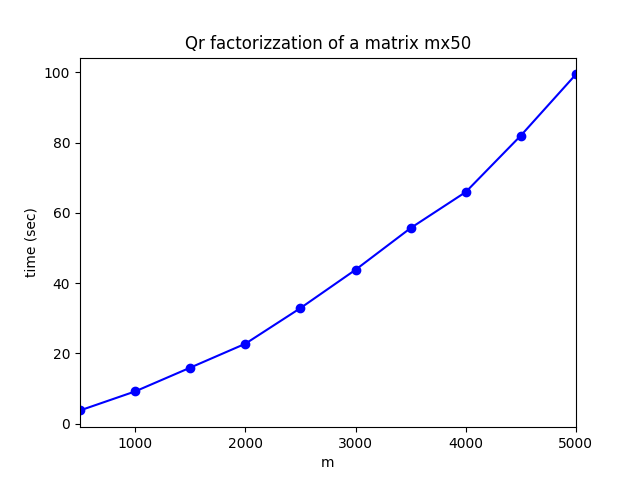
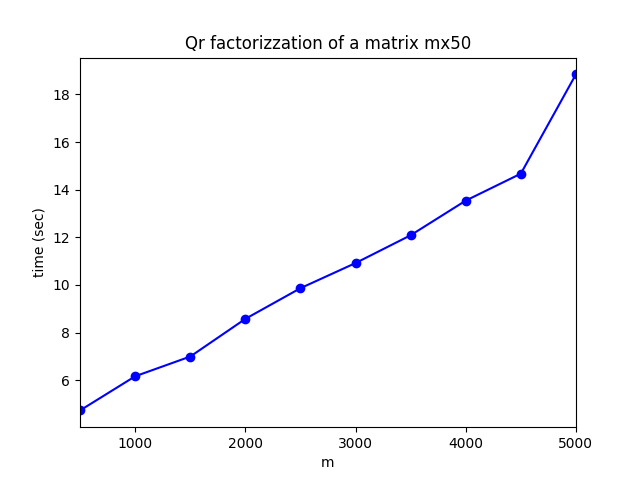
Migliorate performance thin QR

diff --git a/src/testLS.py b/src/testLS.py
@@ -60,7 +60,7 @@ def load_ML_CUP_dataset ( filename ):
     return np.array(M), np.array(b)
 
 
-def QR_scaling () :
+def QR_scaling (m, n, step, t) :
     """Tests the QR factorization for different matrices with m in [200, 5000] and n=50.
     Executes each example for a given amount of time and averages the times accordingly. For each result
     prints the size m and the average execution time, together with the time difference from the previous
@@ -70,12 +70,12 @@ def QR_scaling () :
     of dimension m. The resulting image is saved in the resource folder as 'QRscaling_n50.png'.
     """
 
-    print("n=50")
+    starting_m = 500
+
+    print(f"n={n}, m={m}, t={t}")
     print("m\ttime\tdelta")
-    n = 500
-    t = 10
     time_list = []
-    mrange = range(500,5500,500)
+    mrange = range(starting_m,m,step)
     prev_a = 0
     ls = LS()
     for m in mrange:
@@ -85,9 +85,7 @@ def QR_scaling () :
             startQR = dt.now()
             R = ls.qr(A)
             Q = ls.revertQ()
-            R_complete = np.zeros((m,n))
-            R_complete[:n, :n] = R_complete[:n, :n] + R
-            QR = np.dot(Q, R_complete)
+            QR = np.dot(Q, R)
             endQR = end_time(startQR)
             mean += endQR
         
@@ -105,7 +103,7 @@ def QR_scaling () :
 
     plt.gca().set_xlim ((min(mrange)-1, max(mrange)+1))
 
-    plt.savefig("../results/QRscaling_n500_secs.png")
+    plt.savefig(f"../results/QRscaling_n{n}m{m}_secs.png")
     plt.clf()
 
 
@@ -123,15 +121,13 @@ def test_random_dataset(m, n):
     startQR = dt.now()
     R = ls.qr(M)
     Q = ls.revertQ()
-    R_complete = np.zeros((m,n))
-    R_complete[:n, :n] = R_complete[:n, :n] + R
-    QR = np.dot(Q, R_complete)
+    QR = np.dot(Q, R)
     endQR = end_time(startQR)
 
 
     # Computes QR factorization using numpy
     startQRnp = dt.now()
-    Qnp, Rnp = np.linalg.qr(M, mode="complete")
+    Qnp, Rnp = np.linalg.qr(M)
     QRnp = np.dot(Qnp, Rnp)
     endQRnp = end_time(startQRnp)
 
@@ -226,4 +222,9 @@ if __name__ == "__main__":
         n = int(sys.argv[3])    # number of cols
         test_random_dataset(m, n)
     elif test == QR_SCALING:
-        QR_scaling()
+        assert len(sys.argv) == 6, "This kind of test requires 'm', 'n', 'step' and 't'."
+        m = int(sys.argv[2])
+        n = int(sys.argv[3])
+        step = int(sys.argv[4])
+        t = int(sys.argv[5])
+        QR_scaling(m, n, step, t)

diff --git a/src/LS.py b/src/LS.py
@@ -115,8 +115,8 @@ class LS():
         n = len(self.u_list)
         m = len(self.u_list[0])
 
-        Q = np.zeros((m,m))
-        for i in range(m):
+        Q = np.zeros((n,m))
+        for i in range(n):
             e_i = np.zeros(m)
             e_i[i] = 1.0
             for k in range(n-1, -1, -1):
